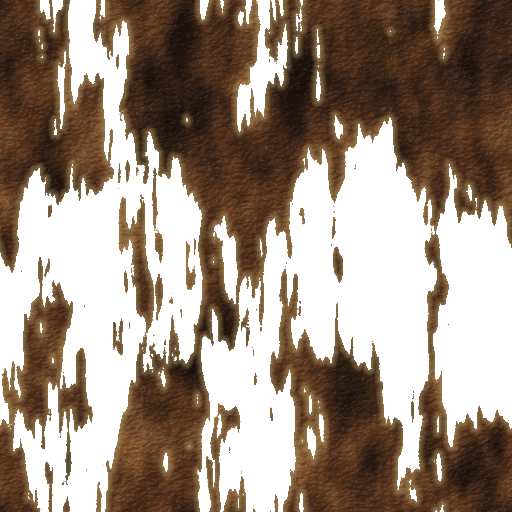
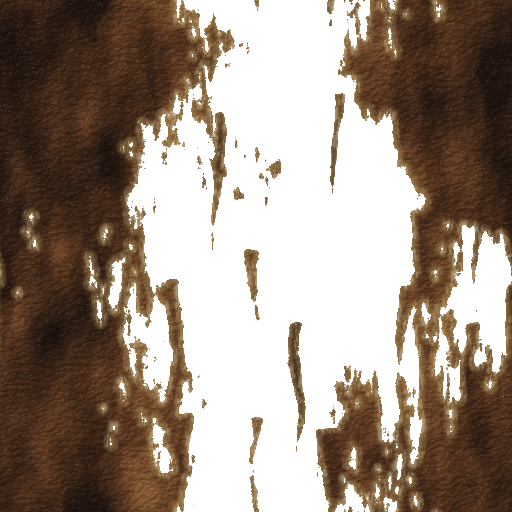
Burns v2: review fixes (floor dose by time, engulf, hidden parts, acid art)
- Server: a burning floor doses by the time spent in it (first mark, then
  0.5 / 0.25 degrees a second), no forced write every tick; ignite only
  forces a write when the burn starts or changes kind.
- Server: Burns.engulf exported; "Burning" set to a kind the body isn't
  burning with (acid -> fire) engulfs it. Merge note: Immolate's onIgnite
  must call Burns.engulf (a same-value attribute fires no event).
- Server: acid runs down from the head to the torso, from the torso to the
  leg on the hit side (both in the middle); arms no longer dose themselves.
- Server: a corpse copy gets its own copies of the laser spots.
- Client: burn textures hide on any invisible part (cut copies included),
  flames keep the Gashes rule; a part going invisible later redraws.
- Textures: acid runs down in drip streaks with ragged eroded margins and
  a yellow-brown stain (no more horizontal bands); cloth_2 holes show a
  varied wound bed with grey dead edges.

Claude-Session: https://claude.ai/code/session_01J7AngvhGU1NARLygXpdcY3

diff --git a/tools/burns/make_burns.py b/tools/burns/make_burns.py
@@ -394,7 +394,6 @@ def cloth_set(seed):
     s2c, _ = blisters(skin_rng, skin_depth, 0.0)
     s3c, _ = eschar(skin_rng, skin_depth, 0.0)
     s4c, _ = char(skin_rng, skin_depth, 0.0)
-    s1c, _ = erythema(skin_rng, skin_depth)
 
     # 1: singed: the cloth browns (yellow-brown to dark brown), patchy.
     t = norm(depth + 0.25 * spectral(rng, 2.0, low=6, high=60))
@@ -421,12 +420,19 @@ def cloth_set(seed):
         black = mix(black, rgb(110, 104, 98), 0.5 * lip)
         # the skin seen through the hole, a shadow along the edge
         inner_shadow = np.clip(wrap_blur(1 - hole, 2.5) - (1 - hole), 0, 1)
-        skin = skin_color * (1 - 0.85 * smooth(0, 0.4, inner_shadow))[..., None]
+        # greyish dead skin just inside the burnt edge
+        dead, _ = edge_band(hole, 7)
+        skin = mix(skin_color, rgb(168, 150, 138), 0.45 * dead)
+        skin = skin * (1 - 0.85 * smooth(0, 0.4, inner_shadow))[..., None]
         color = mix(mix(brown, black, charred), skin, hole)
         alpha = np.maximum(np.maximum(charred, hole), 0.7 * ring)
         return color, alpha
 
-    save("cloth_2.png", *charred_cloth(0.3, 0.55, mix(s2c, s1c, 0.25)))
+    # (the skin in cloth_2's holes: a partial-thickness wound bed, not a
+    # flat red: swollen red skin and blisters at the hole's edge, peeling
+    # grey-white dead skin, the wet raw dermis in the middle)
+    bed, _ = blisters(np.random.default_rng(seed + 5), skin_depth, 0.5)
+    save("cloth_2.png", *charred_cloth(0.3, 0.55, bed))
     save("cloth_3.png", *charred_cloth(0.12, 0.3, mix(s3c, s2c, smooth(0.6, 0.3, depth))))
     # 4: burnt into the skin: char, with scraps of fused cloth on it
     color, alpha = char(np.random.default_rng(seed + 2), depth, 0.0)
@@ -439,57 +445,92 @@ def cloth_set(seed):
     save("cloth_4.png", color, alpha)
 
 
+def drips(rng, count, n=N):
+    """Periodic run-down streaks: each starts at a random point and runs
+    straight down a random length, thinning and fading as it goes (acid
+    trickling down the skin). 1 on a streak, 0 elsewhere."""
+    out = np.zeros((n, n))
+    py, px = np.mgrid[0:n, 0:n]
+    for _ in range(count):
+        x0, y0 = rng.random() * n, rng.random() * n
+        length = n * (0.15 + 0.45 * rng.random())
+        width = 5 + 12 * rng.random()
+        dy = (py - y0) % n  # (below the start, wrapping)
+        t = dy / length
+        wobble = 4 * np.sin(dy / (18 + 20 * rng.random()) + rng.random() * 6)
+        dx = np.abs(((px - x0 - wobble + n / 2) % n) - n / 2)
+        w = width * (1 - 0.7 * t)
+        streak = np.clip(1 - dx / np.maximum(w, 0.5), 0, 1) * np.clip(1 - t, 0, 1) ** 0.6
+        out = np.maximum(out, streak)
+    return wrap_blur(out, 1.2)
+
+
 def acid_set(seed):
-    """Acid runs DOWN: the depth map is stretched vertically, with runs.
-    (spectral's `stretch` > 1 on an axis damps change along it: features
-    get long on that axis.)"""
+    """Acid runs DOWN: the depth map is made of tall blobs and drip
+    streaks. (spectral's `stretch` (y, x) > 1 on an axis damps change
+    along it: features get long on that axis; low = 1 so the one-cycle
+    terms along x are kept, else the tile turns into horizontal bands.)"""
     rng = np.random.default_rng(seed)
-    big = spectral(rng, 3.4, low=1.5, high=10, stretch=(1.8, 1.0))
-    mid = spectral(rng, 2.6, low=4, high=40, stretch=(2.2, 1.0))
-    runs = spectral(rng, 1.8, low=6, high=90, stretch=(5.0, 0.9))
-    depth = rank(big + 0.35 * mid + 0.4 * runs)
-    jag = spectral(rng, 1.2, low=30, high=200) * 0.012  # eroded, ragged edges
+    big = spectral(rng, 3.4, low=1.0, high=10, stretch=(1.4, 1.0))
+    mid = spectral(rng, 2.6, low=1.0, high=40, stretch=(1.7, 1.0))
+    runs = spectral(rng, 1.8, low=1.0, high=90, stretch=(4.0, 0.9))
+    streaks = drips(rng, 22)
+    depth = rank(big + 0.35 * mid + 0.25 * runs + 2.2 * streaks)
+    # eroded, ragged edges: a coarse bite plus fine fraying
+    jag = spectral(rng, 1.6, low=8, high=60) * 0.03 + spectral(rng, 1.0, low=40, high=220) * 0.012
 
     # 1: chemical erythema with yellow-brown staining (the acid's colour
-    # soaked into the skin), streaked downward.
-    t = norm(depth + 0.3 * spectral(rng, 2.0, low=6, high=60, stretch=(2.0, 1.0)))
-    stain = palette(t, [(0, (196, 120, 90)), (0.5, (178, 118, 64)), (1, (140, 90, 44))])
-    alpha = 0.22 + 0.45 * smooth(0.1, 1.0, t)
-    save("acid_1.png", stain, alpha)
+    # soaked into the skin), streaked downward, darker tide marks where
+    # it dried at the edge of the wet area.
+    t = norm(depth + 0.3 * spectral(rng, 2.0, low=1.0, high=60, stretch=(2.4, 1.0)))
+    stain = palette(
+        t,
+        [(0, (200, 116, 88)), (0.35, (190, 132, 70)), (0.7, (168, 120, 48)), (1, (124, 84, 34))],
+    )
+    wet = smooth(0.35, 0.45, depth + jag)
+    tide, _ = edge_band(wet, 5)
+    stain = mix(stain, rgb(112, 76, 32), 0.55 * tide)
+    alpha = 0.3 + 0.45 * smooth(0.1, 1.0, t) + 0.2 * tide
+    save("acid_1.png", stain, np.clip(alpha, 0, 0.9))
 
     # 2: eroded: dull yellow-grey / brown slough (coagulated dead skin),
-    # raw red where it has come off, a pale eroded rim. Matte-moist.
+    # raw red where it has come off, pale ragged eroded margins with
+    # lifted shreds of skin. Matte-moist.
     cover = 0.3
     region = smooth(-0.006, 0.006, depth - cover + jag)
-    slough_t = norm(spectral(rng, 2.6, low=3, high=40, stretch=(2.0, 1)) + 1.2 * (depth - cover))
+    slough_t = norm(spectral(rng, 2.6, low=1.0, high=40, stretch=(2.4, 1)) + 1.2 * (depth - cover))
     slough = palette(
         slough_t,
-        [(0, (204, 178, 134)), (0.4, (186, 150, 104)), (0.75, (156, 114, 72)), (1, (122, 80, 50))],
+        [(0, (204, 180, 130)), (0.4, (184, 152, 96)), (0.75, (152, 114, 66)), (1, (118, 80, 46))],
     )
-    pits = smooth(0.74, 0.76, rank(spectral(rng, 2.8, low=3, high=30, stretch=(1.6, 1)) + 0.8 * depth) + jag * 2)
-    raw = palette(norm(spectral(rng, 2.4, low=4, high=40)), [(0, (178, 80, 66)), (1, (138, 52, 46))])
-    h = spectral(rng, 1.8, low=10, high=120, stretch=(2.0, 1.0)) * 0.8 - wrap_blur(pits, 2) * 3
+    pits = smooth(0.7, 0.72, rank(spectral(rng, 2.8, low=1.0, high=30, stretch=(2.0, 1)) + 0.6 * depth + 1.5 * streaks) + jag)
+    raw = palette(norm(spectral(rng, 2.4, low=4, high=40)), [(0, (178, 84, 66)), (1, (130, 50, 44))])
+    h = spectral(rng, 1.8, low=10, high=120, stretch=(2.4, 1.0)) * 0.8 - wrap_blur(pits, 2) * 3
     color = mix(slough, raw, pits)
     color = relit(color, h, 0.6, 0.85)
     _, spec = shade(h, 1.2)
     color = color + wrap_blur(spec**50, 0.7)[..., None] * 0.12  # moist, not glossy
-    rim, _ = edge_band(region, 4)
-    color = mix(color, rgb(214, 198, 160), 0.5 * rim)  # whitened, eroded edge
+    rim, _ = edge_band(region, 6)
+    shreds = smooth(0.55, 0.65, norm(spectral(rng, 1.2, low=30, high=200, stretch=(3.0, 1.0))))
+    color = mix(color, rgb(222, 208, 176), 0.55 * rim)  # whitened, eroded edge
+    color = mix(color, rgb(238, 228, 206), 0.6 * rim * shreds)  # lifted shreds
     save("acid_2.png", color, region)
 
-    # 3: deep: brown-black leathery eschar, a ragged slough rim.
+    # 3: deep: brown-black leathery eschar running down, a ragged
+    # yellow-brown slough rim.
     cover = 0.42
     region = smooth(-0.006, 0.006, depth - cover + jag)
     d = np.clip((depth - cover) / (1 - cover), 0, 1)
-    tone = norm(spectral(rng, 2.6, low=3, high=30, stretch=(1.6, 1.0)) + 1.2 * d)
+    tone = norm(spectral(rng, 2.6, low=1.0, high=30, stretch=(2.0, 1.0)) + 1.2 * d)
     esch = palette(tone, [(0, (122, 80, 44)), (0.4, (86, 52, 30)), (0.75, (52, 32, 20)), (1, (30, 19, 14))])
     leather = spectral(rng, 1.4, low=40, high=200, stretch=(1.0, 1.8))
     h = leather * 0.7 + spectral(rng, 2.6, low=4, high=30) * 1.6
     esch = relit(esch, h, 0.7, 0.78)
     _, spec = shade(h, 1.6)
     esch = esch + (spec**30)[..., None] * 0.08
-    rim, _ = edge_band(region, 7)
-    esch = mix(esch, rgb(176, 150, 96), 0.65 * rim)  # yellow-brown slough lip
+    rim, _ = edge_band(region, 8)
+    esch = mix(esch, rgb(176, 148, 92), 0.65 * rim)  # yellow-brown slough lip
+    esch = mix(esch, rgb(214, 196, 160), 0.5 * rim * shreds)
     save("acid_3.png", esch, region)
 
 

diff --git a/docs/BURNS_FR.md b/docs/BURNS_FR.md
@@ -20,6 +20,9 @@ Un seul système de brûlures pour tout le jeu : le **rayon** du Dr. Rift (son p
 - **Le feu s'éteint proprement** : les flammes partent, le corps **fume** encore (fumée grise, quelques braises sur les parties carbonisées) puis plus rien. Les brûlures **restent** jusqu'au kill (la vie remonte), la nouvelle manche ou la réapparition.
 - Un corps qui **meurt en brûlant** brûle encore ~4 s ; sa copie de cadavre aussi (~8 s), puis fume.
 - Un membre qui a une **plaie ouverte** (coupure au verre, trou du Sentinel) est remplacé par sa copie percée : ses flammes et sa fumée restent, mais ses images de brûlure ne s'affichent pas dessus tant que la plaie est là.
+- Une **tête qui éclate** ou un membre qui s'ouvre **après coup** (brûlure déjà finie, cadavre compris) : ses images de brûlure disparaissent aussitôt (plus de « boîte » brûlée qui flotte).
+- **Debout dans une flaque d'acide ou un feu au sol** : la brûlure dépend du **temps passé dedans** (une première marque au contact, puis elle s'approfondit seconde après seconde : il faut plusieurs secondes pour arriver à l'escarre, pas une).
+- L'acide **coule** : d'une tête vers le torse, du torse vers la jambe du côté touché (les deux si c'est au milieu).
 - **Dégâts** : côté serveur, toutes les 0,5 s pendant la durée de la brûlure (comme avant ; rien n'a changé pour l'équilibrage).
 - **Tout le monde voit la même chose** : tout passe par des attributs sur le personnage (`Burn_T`, `Burn_RA`... + `BurnLit` + `BurnSmoke`), donc un joueur qui arrive plus tard, un corps vu de loin puis de près, et les **cadavres** ont les mêmes brûlures.
 
@@ -67,5 +70,11 @@ Tout est généré (aucune photo) : `venv/bin/python -I tools/burns/make_burns.p
 
 - Un coup : `burn = { kind = "Fire" | "Acid", perSecond, duration, spot = true? }` dans le `HitDef` (`spot` = un laser : tache profonde, peu de propagation).
 - Un sol qui brûle (flaque, Molotov) : le `burn` des `Moves` (pieds d'abord).
-- Mettre quelqu'un en feu d'un coup (finisher) : l'attribut `"Burning" = "Fire"` sur le combattant (tout le corps prend feu) ; `nil` l'éteint.
+- Mettre quelqu'un en feu d'un coup (finisher) : l'attribut `"Burning" = "Fire"` sur le combattant (tout le corps prend feu, même s'il brûlait déjà à l'acide) ; `nil` l'éteint. **S'il brûlait déjà au feu**, l'attribut ne change pas (`"Fire"` → `"Fire"`) et rien ne se passe : appeler aussi `Burns.engulf(cible, "Fire")` côté serveur.
 - Côté serveur directement : `Combat/Burns` (`expose`, `ignite`, `extinguish`, `clear`).
+
+## À la fusion avec la branche du Pyromane (`feature/kit-pyromaniac`)
+
+- Dans `Combat/init.luau`, le rappel `onIgnite` d'**Immolation** (qui vide `burnPerSecond` / `burnUntil` de la victime) doit aussi appeler **`Burns.engulf(target, "Fire")`** : sinon une victime qui brûlait déjà d'un coup de feu du Pyromane ne prend pas feu partout (même valeur `"Fire"`, aucun événement).
+- Le commentaire de `Combat/Immolate.luau` qui cite « Client RiftBurn » devient « Client/Combat/Burns » (RiftBurn n'existe plus).
+- Les flaques de feu du Pyromane passent par `c.burn` (comme celles de l'acide) : rien d'autre à changer, la dose au sol dépend déjà du temps passé dedans.
